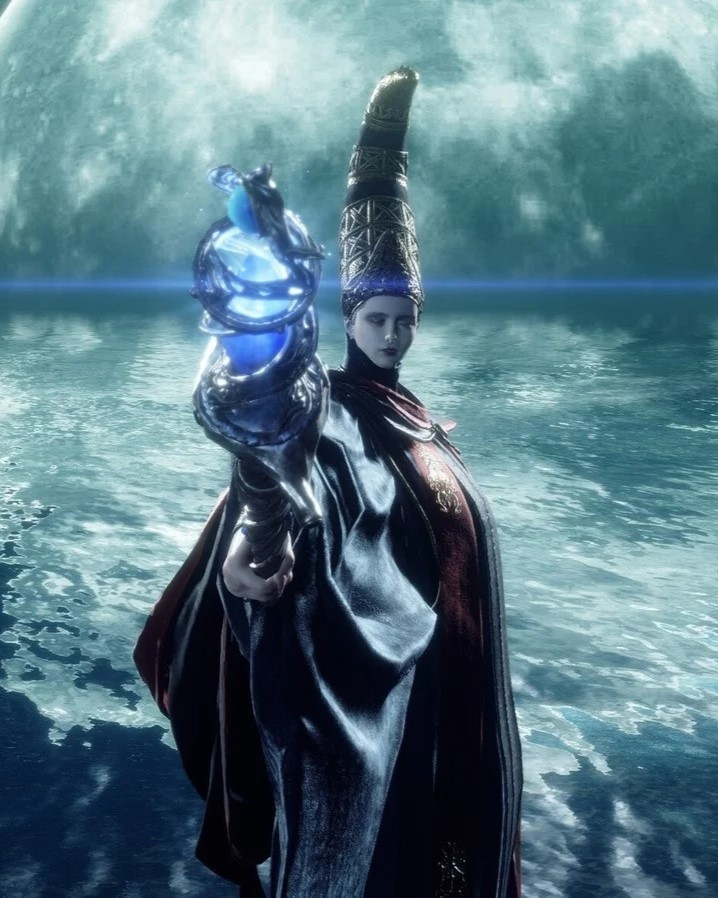
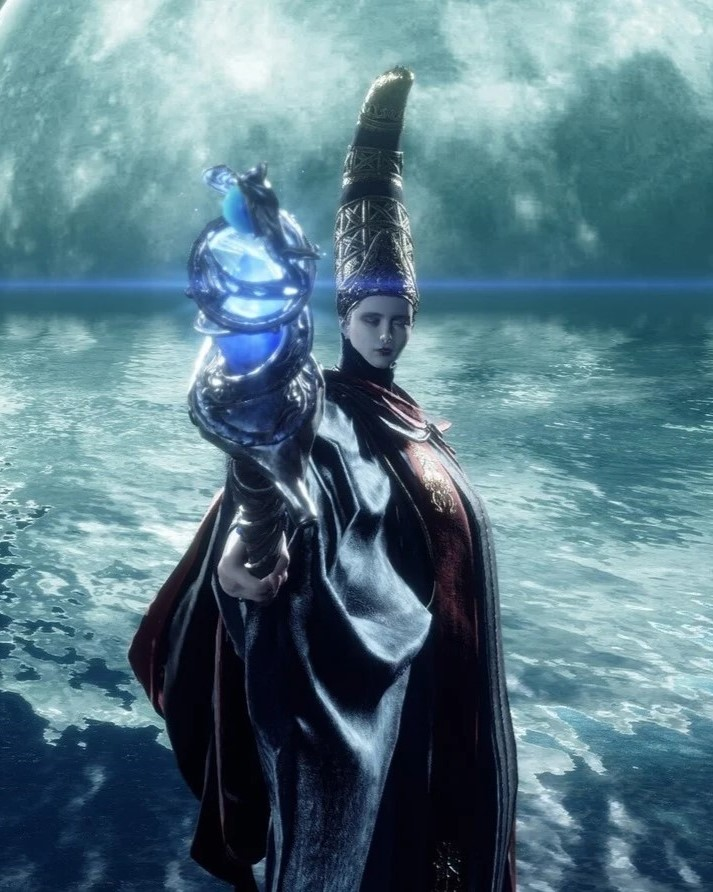
Image and course changes

diff --git a/index.html b/index.html
@@ -280,7 +280,7 @@
             <div class="courses-item position-relative">
                 <img class="img-fluid" src="img/courses-4.jpg" alt="">
                 <div class="courses-text">
-                    <h4 class="text-center text-white px-3">Placeholder</h4>
+                    <h4 class="text-center text-white px-3">Glintstone Sorceries</h4>
                     <div class="border-top w-100 mt-3">
                         <div class="d-flex justify-content-between p-4">
                             <span class="text-white"><i class="fa fa-user mr-2"></i></span>
